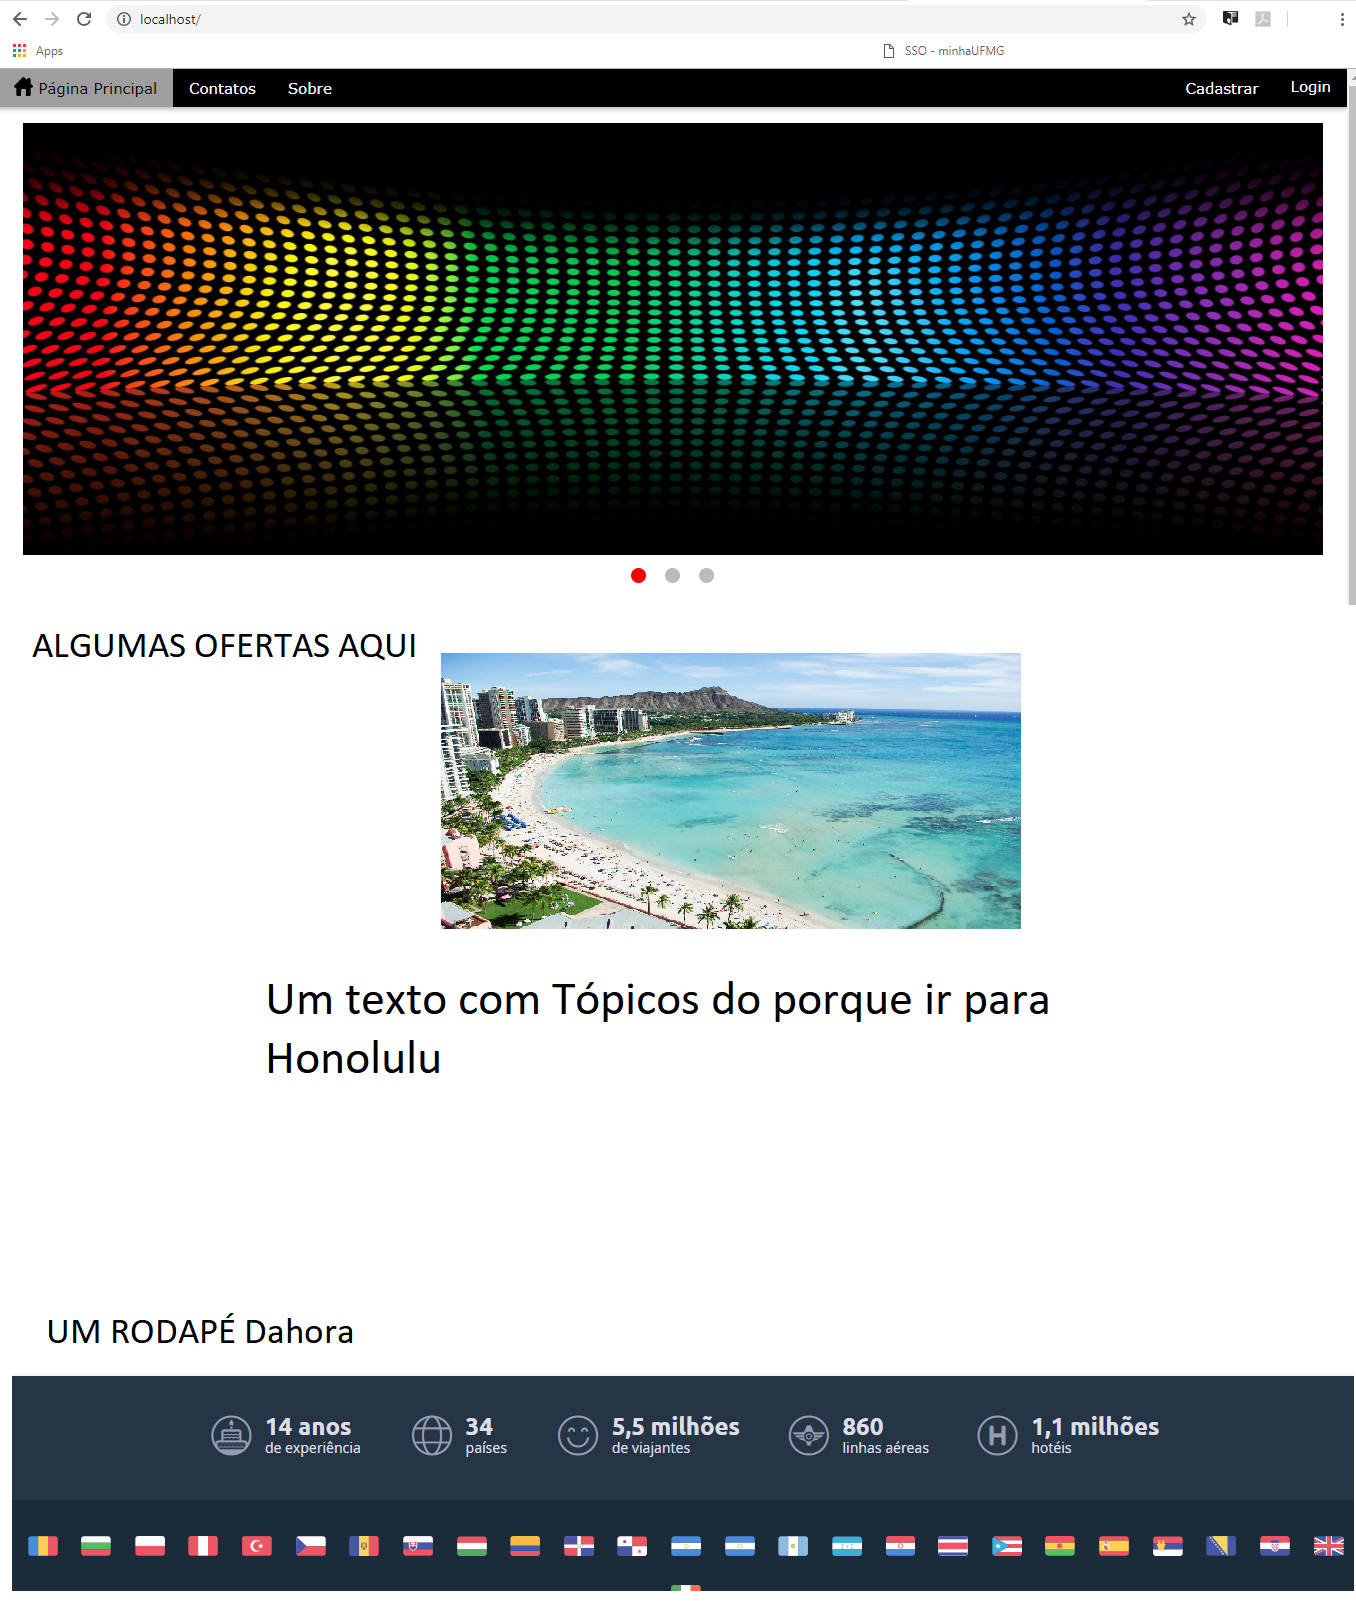
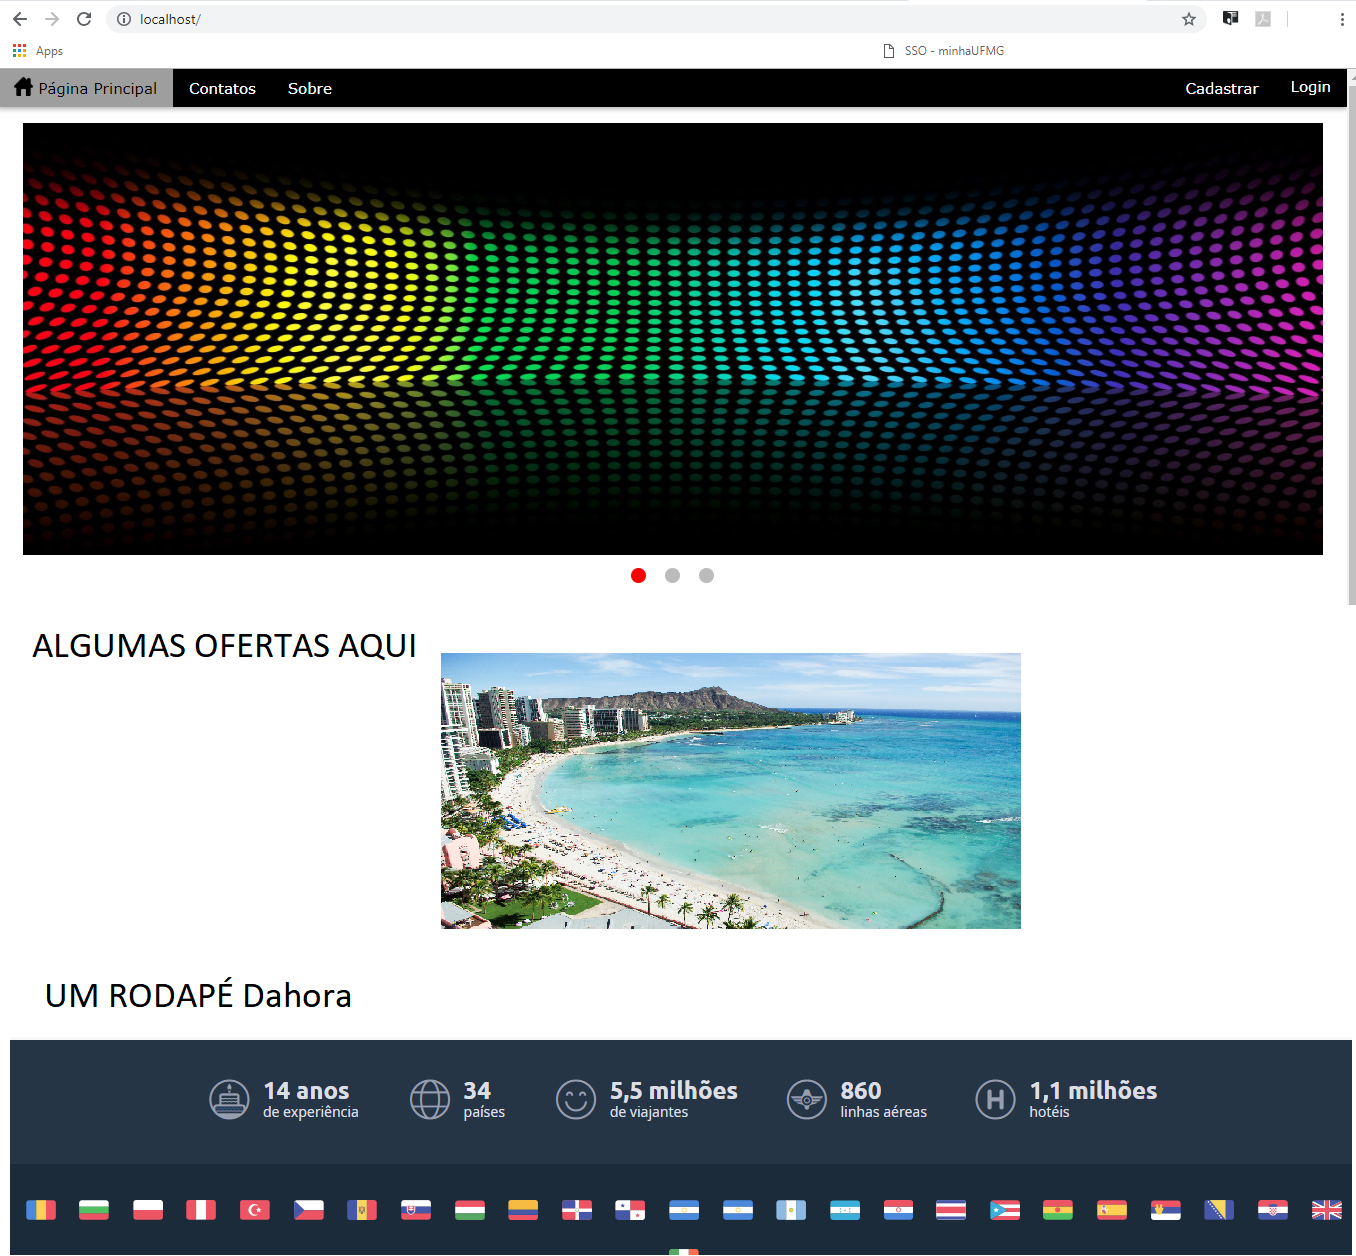
Falto só Tornar Pacote Honolulu Responsivel e fazer o furmulário de pesquisa de destinos e coloca-lo em um local adequado

diff --git a/Pacote1.html b/Pacote1.html
@@ -3,9 +3,9 @@
 <meta charset="utf-8">
 <meta name="viewport" content="width=device-width">
 <link rel="stylesheet" href="css/w3.css">
-<link rel="stylesheet" href="css/cod.css">
+<link rel="stylesheet" href="css/cod2.css">
 <link rel="stylesheet" href="Css/normalize.css">
-<title>Danutur Turismo</title>
+<title>Pacote Para Honolulu</title>
 </head>
 
 <body>
@@ -70,88 +70,58 @@ function aparecer(i) {
 </ul>
 </nav>
 </Header>
-<section >
 </br>
-</br>
-
-<div class="w3-content w3-section" style="max-width:95%;">
-  <img class="mySlides not_img" src="imagens/H1.jpg" >
-  <img class="mySlides not_img" src="imagens/H2.jpg" >
-  <img class="mySlides not_img" src="imagens/H3.jpg" >
-</div>
-<div style="text-align:center">
-  <span class="dot"></span>
-  <span class="dot"></span>
-  <span class="dot"></span>
-</div>
-<script>
-var slideIndex = 0;
-showSlides();
-
-function showSlides() {
-    var i;
-    var slides = document.getElementsByClassName("mySlides");
-    var dots = document.getElementsByClassName("dot");
-    for (i = 0; i < slides.length; i++) {
-       slides[i].style.display = "none";
-    }
-    slideIndex++;
-
-    if (slideIndex> slides.length) {slideIndex = 1}
-    for (i = 0; i < dots.length; i++) {
-        dots[i].className = dots[i].className.replace(" active", "");
-    }
-    slides[slideIndex-1].style.display = "block";
-    dots[slideIndex-1].className += " active";
-    setTimeout(showSlides, 4000);
-	}
-</script>
-</section>
-<section>
-  <br/>
-</section>
-
-<!--Ofertas-->
-<section id="Ofertas">
-  <h2 class="Ofertante" style="">Ofertas</h2>
+<section id="Principal">
+  <h1>Honolulu</h1>
   <ol>
+    <li><img src="imagens/Honolulu.jpg" alt="Imagem Principal de Honolulu"></li>
     <li>
-        <a href="Pacote1.html">
-        <img src="imagens/imagem.jpg" alt="Honolulu">
-        <figcaption  >Pacte com tudo incluso para Honolulu    </br>   R$5600,00</figcaption>
-        </a>
-    </li>
-    <li>
-        <a href="Destino2.html">
-        <img src="imagens/H2.jpg" alt="Destino2">
+    <div>
+      <h2>O Ceu Na Terra</h2>
+      </br>
+      <p>Honolulu é muito pica Carai, todo mundo tem de curtir esse role ta ligado. Tipo que é bom pra caralho, e é melhor se for tirando onda</p>
+      <ul>
+        <li>Lugarzinho do Caralho</li>
+        <li>Só Mulheres Top</li>
+        <li>Se tu não for, é muito otário</li>
+        <li> Vai Saporra maluco</li>
 
-        <figcaption > Pacte com tudo incluso para Destino2     </br>  R$######</figcaption>
-        </a>
+      </ul>
+    </div>
     </li>
-    <li>
-        <a href="Destino3.html">
-        <img src="imagens/H1.jpg" alt="Destino3">
-        <figcaption style="font-family: 'Topzera'">Pacte com tudo incluso para Destino3   </br>    R$#######</figcaption>
-        </a>
-   </li>
   </ol>
-  <button id="BtnConversao" style="" class="w3-btn w3-blue w3-round">Compre Agora</button>
-  </br>
-  </br>
 </section>
-
-<footer id="rodape"  >
+<section >
+  <div id="Images">
+  <ol>
+    <li><img src="imagens/Hnl1.jpg"></li>
+    <li><img src="imagens/Hnl2.jpg"></li>
+    <li><img src="imagens/Hnl3.jpg"></li>
+    <li><img src="imagens/Hnl4.jpg"></li>
+    <li><img src="imagens/Hnl5.jpg"></li>
+    <li><img src="imagens/Hnl6.jpg"></li>
+  </ol>
+</div>
+  <div class="Informacao">
+  <h2>Detalhes do Pacote</h2>
+  <ul>
+    <li>Vantagem 1</li>
+    <li>Vantagem 2</li>
+    <li>Vantagem 3</li>
+    <li>Vantagem 4</li>
+  </ul>
+<button id="BtnConversao" style="" class="w3-btn w3-blue w3-round">Compre Agora</button>
+</div>
+</section>
+<footer id="rodape">
       <!--rodape-->
       <div class="container">
         <img src="imagens/logo.png" alt="Logo da Danutur">
-
         <a href="facebook.com" style=""><img src="imagens/facebook.png" alt="Link Externo Facebook"></a>
         <a href="twitter.com"><img src="imagens/twitter.png" alt="Link Externo twitter"></a>
         <a href="googleplus.com"><img src="imagens/googleplus.png" alt="Link Externo GolglePlus"></a>
 
       </div>
 </footer>
-	</body>
-
-
+</body>
 </html>

diff --git a/Css/cod2.css b/Css/cod2.css
@@ -1,0 +1,132 @@
+@font-face {
+   font-family: "Topzera";
+   src: url("Fontes/CHOPS__.TTF") format("truetype");
+}
+
+#pesquisa{
+  border-radius:25px;
+  height: 5%;
+}
+
+/*Fixando o menu do Cliente*/
+.Fixar{
+  position:fixed;
+  width: 100%;
+}
+Header .Fixar{
+  position: fixed;
+  width: 100%;
+}
+
+body{
+  background-color: white;
+}
+
+/*banner Principal*/
+#Principal{
+  margin-top: 0%;
+  align-items: center;
+}
+#Principal h1{
+  margin-left: 40%;
+  font-size: 80;
+  font-family: "Topzera";
+}
+#Principal h2{
+  font-size: 35;
+  font-family: "Topzera";
+}
+padding: 0%;
+margin: 0%;
+#Principal ol{
+  padding-left: 2%;
+  padding-right: 2%;
+}
+#Principal ol li{
+  text-align: center;
+  border: none;
+  font-size: 17;
+  display: inline-block;
+  width: 49%;
+  height: 75%;
+  margin-left: 0%;
+}
+#Principal ol li img{
+  padding-top: 0%;
+  height: 100%;
+  width: 100%;
+}
+#Principal ol li div{
+  margin-left: 5%;
+  margin-top: 0%;
+}
+
+#Principal ol li div ul li{
+  width: 100%;
+  height: 17%;
+  text-align: justify;
+}
+
+/*Galeria de imagens*/
+#Images  ol{
+  padding-right: 2%;
+  padding-left: 2%;
+}
+#Images  ol li{
+  padding: 1%;
+  width: 33%;
+  height: 40%;
+  display: inline-block;
+}
+#Images  ol li img{
+  width: 100%;
+  height: 100%;
+}
+/*Detales do Pacote*/
+.Informacao{
+  background-color: #E9E9E9;
+}
+.Informacao h2{
+  font-size: 40;
+  padding-left: 37%;
+  margin-top: 4%;
+  padding-top: 2%;
+}
+.Informacao li{
+  font-size: 27;
+  margin-bottom: 1%;
+  margin-left: 8%;
+}
+
+
+#BtnConversao{
+  margin-left: 40%;
+  height:10%;
+  width:20%;
+  font-size:30;
+  margin-top: 5%;
+  margin-bottom: 3%;
+}
+
+/*Rodapé*/
+.container {
+  margin: 0 auto;
+  width: 80%;
+  position: center;
+}
+footer{
+  width: 100%;
+  padding-top: 3%;
+  height: 15%;
+  clear: both;
+  background-color: black;
+}
+.container a {
+  /* tamanho da imagem */
+  height: 32px;
+  width: 32px;
+  /* image replacement */
+  display: block;
+  float: right;
+  margin-left: 3%;
+}

diff --git a/Css/cod.css b/Css/cod.css
@@ -21,14 +21,6 @@
 	  align-items: center;
     text-align: center;
   }
-
-  .tam{
-	  margin-top:3%;
-	  width:100px;
-	  height:100px;
-	  border:1px solid white;
-
-  }
   .not_img{
 	width:100%;
 	height:65%;
@@ -54,6 +46,7 @@
   font-family: 'Topzera';
   padding-left: 45%;
   font-size: 50;
+  margin-bottom: 4%;
 }
 
 /*Cor cinzenta do fundo*/
@@ -122,6 +115,71 @@ footer{
   margin-left: 3%;
 }
 
-ul .w3-navbar .w3-card-2 .w3-white li:hover{
-  background: gray;
+
+/*butão para Aumentar taxa de Conversão*/
+#BtnConversao{
+  margin-left: 40%;
+  height:10%;
+  width:20%;
+  font-size:30;
+  margin-top: 5%;
+  margin-bottom: 3%;
+}
+@media (max-width: 720px) {
+  .not_img{
+    width:100%;
+    height:90%;
+  }
+  .Fixar{
+    position: absolute;
+    width: 100%;
+  }
+
+  .Ofertante{
+    font-family: 'Topzera';
+    padding-left: 30%;
+    font-size: 50;
+  }
+
+  #Ofertas ol{
+    padding-left: 15%;
+    padding-right: 5%;
+
+  }
+  #Ofertas ol li{
+    text-align: center;
+    background-color: white;
+    border-radius: 9px;
+    box-shadow: inset 1px 1px 4px #999;
+    font-family: "Topzera";
+    display: inline-block;
+    width: 80%;
+    margin-top: 6%;
+  }
+  #Ofertas figcaption{
+    padding-top:2%;
+    padding-bottom: 2%;
+  }
+  #Ofertas li:hover{
+    background-color: rgba(255,255,255,0.8);
+    width: 90%;
+    box-shadow: 0 0 5px #333;
+    transition: 1.1s cubic-bezier(.13, .98, 0, 0);
+  }
+  #Ofertas a{
+    text-decoration: none;
+  }
+  #Ofertas img{
+    border-radius: 9px;
+    width: 100%;
+  }
+
+  #BtnConversao{
+    margin-left: 10%;
+    height:10%;
+    width:80%;
+    font-size:30;
+    margin-top: 5%;
+    margin-bottom: 3%;
+  }
 }
